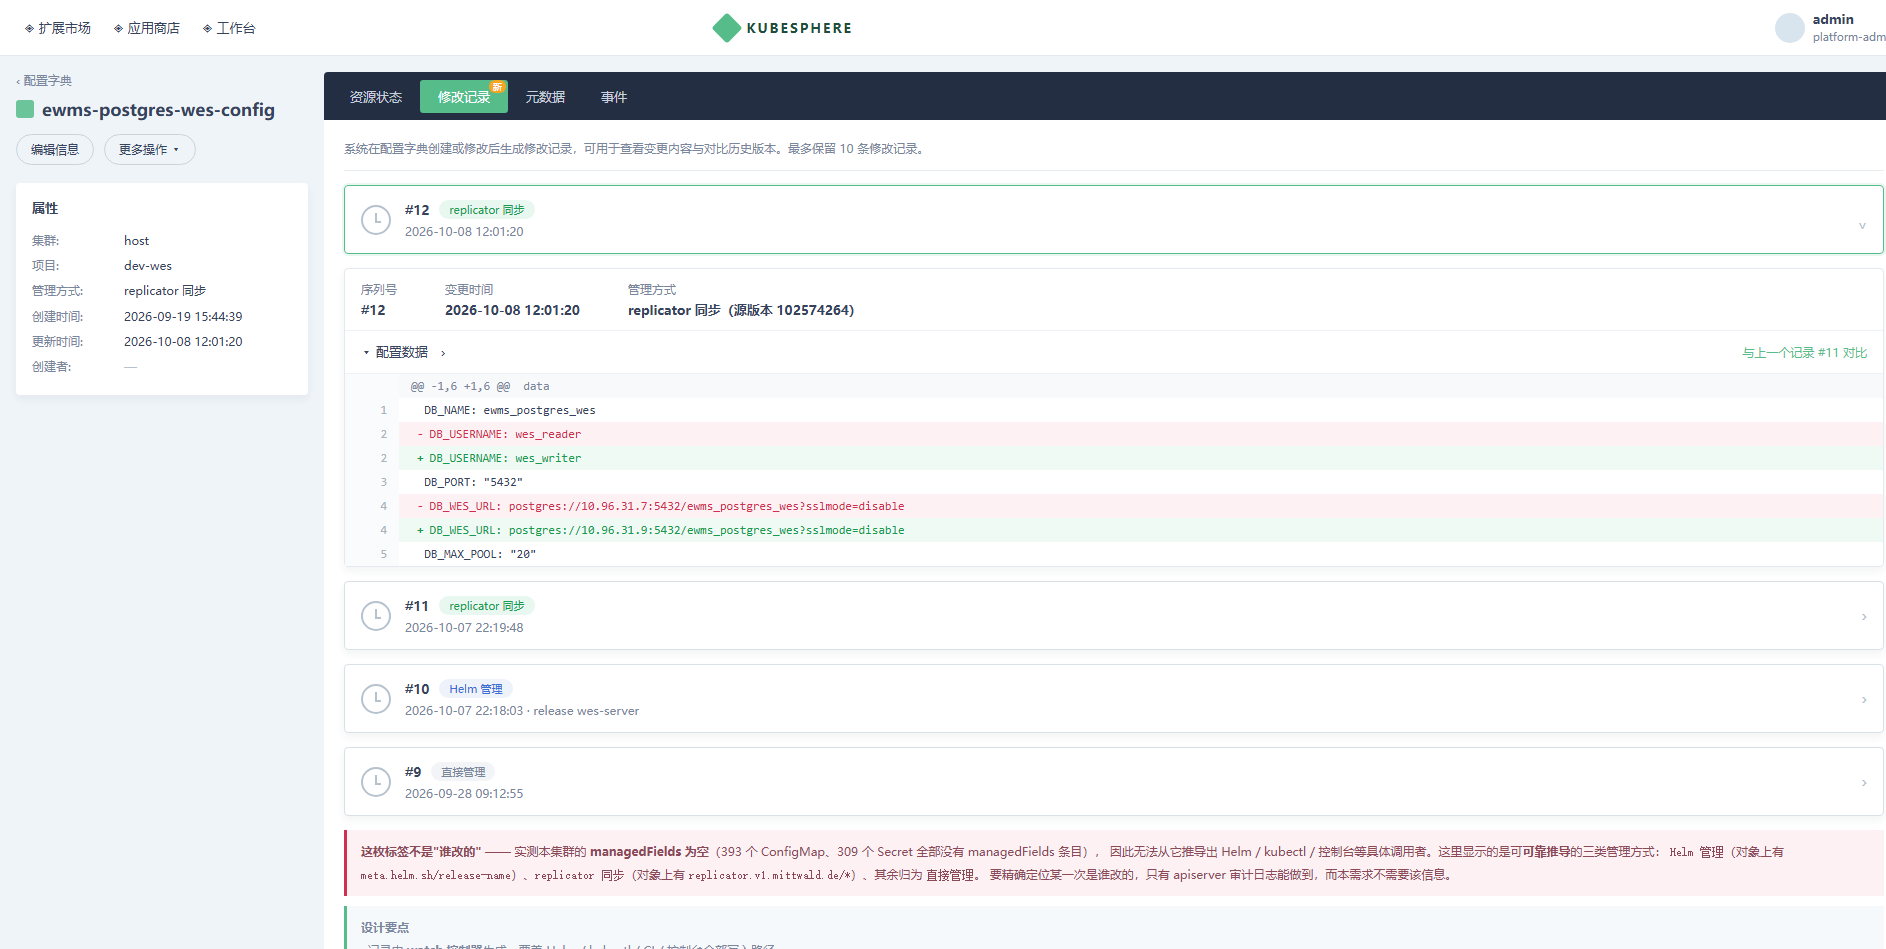
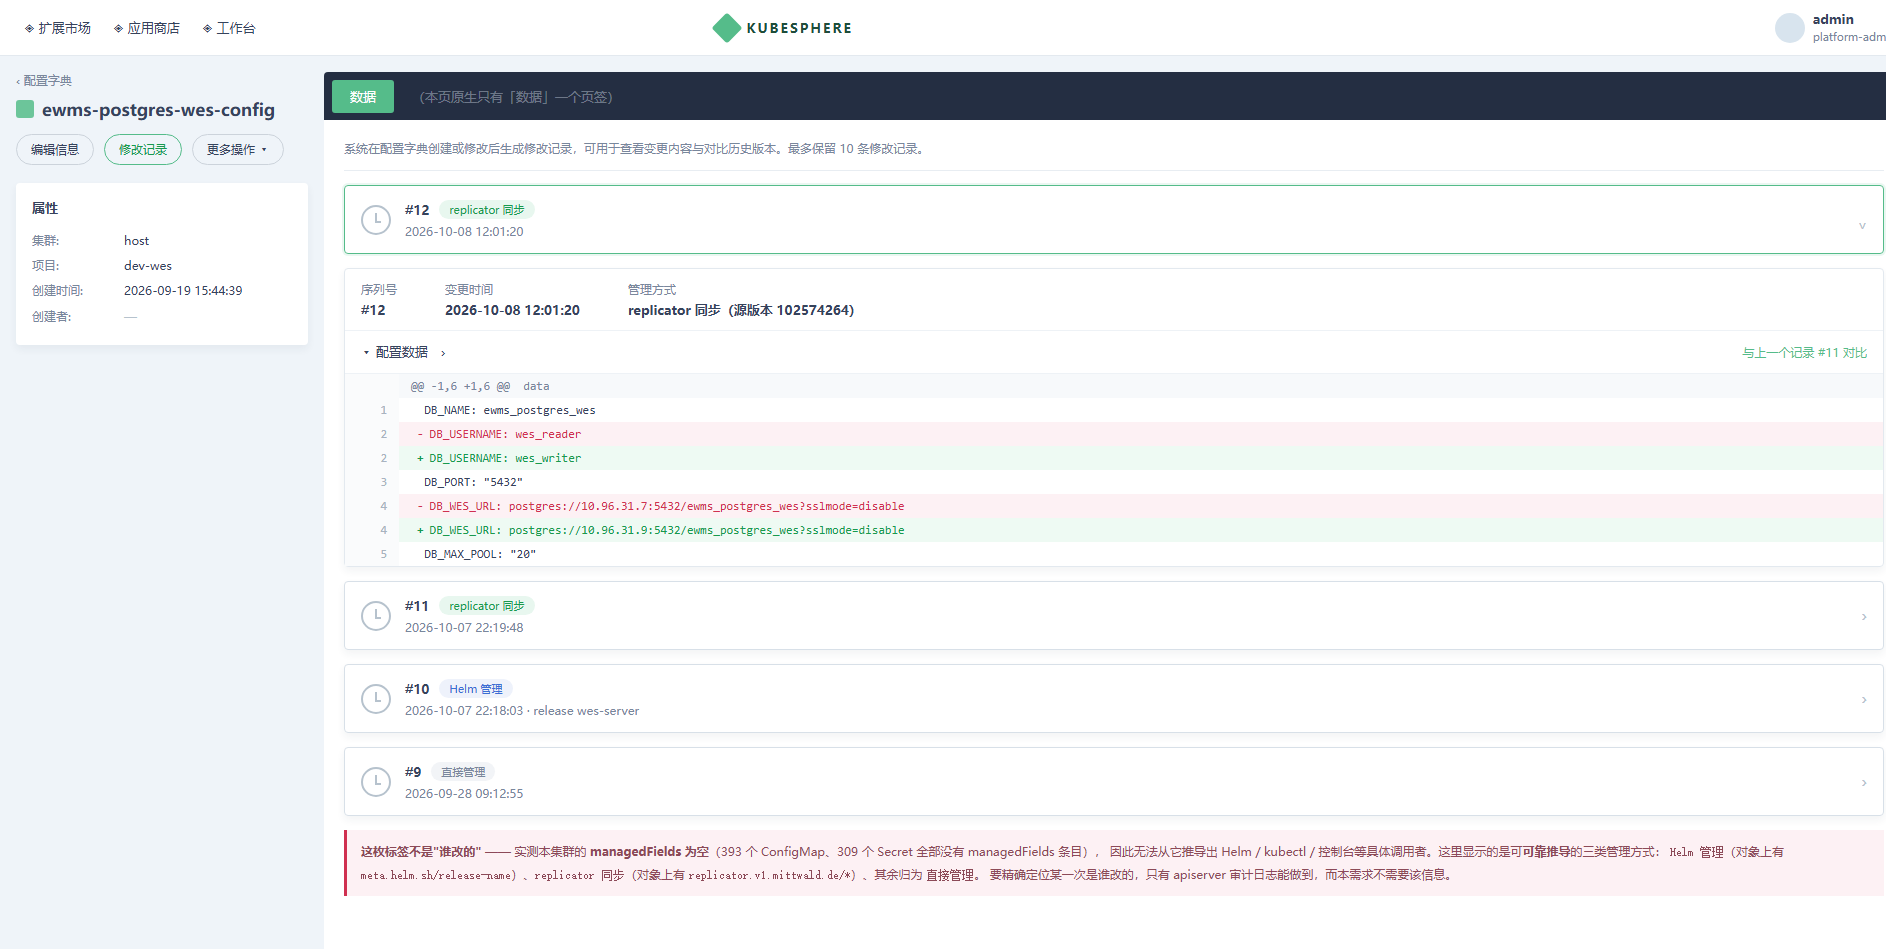
docs(config-history): the integration section, and a mockup that matches what was built
Adds the section the frontend rework deserves: the history renders through a portal into the
ConfigMap/Secret page's own content area rather than opening a page of its own, the entry is a
button reusing the native classes, and the page's own content is only hidden, never destroyed. It
also records why the design's four-tab bar is not implemented -- that bar belongs to the workload
pages, while this page has a single 数据 tab, and faking one would break when the embedded page
changes -- and why the property column keeps only what the console itself shows.

The four integration traps are written down with their causes: routing outside ProjectListLayout,
the two base64 layers, secretStore.getDetailUrl returning a misspelled host without a leading slash,
and a 404 read off an axios shape after the call moved to fetch.

The mockup is re-rendered to match what exists: the real single-tab bar, the injected button in the
action row, no property rows that the product does not have, and no design-notes box inside the
interface. Its earlier four-tab bar and 2-3px corners were drawing errors, not intent.

All four were found by making the page state its own failure and by reading the rendered image, not
by assertions -- which is also written down.

diff --git a/docs/designs/2026-10-08-config-history-design.md b/docs/designs/2026-10-08-config-history-design.md
@@ -159,6 +159,53 @@ public-workspace    6 个：aaaa · alerting · devops · monitoring · nfs · w
 base64，我们自己的负载又是 `base64(gzip(json))`。前端解码必须**连解两层**再 gunzip。这一点在
 联调时曾导致"Not a gzipped file (b'H4')"的误判 —— 当时怀疑是后端写错，实际是测试脚本少解了一层。
 
+### 前端集成：portal 进页面，而不是另开一页（实现后补充）
+
+这是本功能前端返工最多次的一处，值得记下结论与理由。
+
+**最终做法**：历史页面通过 `createPortal` 渲染进 V3 配置字典/保密字典页**自己的内容区**，与
+`配置引用` 渲染进容器编辑器是同一种做法。入口是**与原生按钮同排的一个按钮**（直接复用原生
+`className`，所以天然是原生胶囊样式）。打开时只把 V3 原内容 `display:none`，关闭时恢复 ——
+**不销毁嵌入页的任何东西**。
+
+**为什么不是独立路由**：第一版把历史做成 `ProjectListLayout` 下的独立 v4 路由，结果是**进去
+以后外框整个变了**（V3 的属性面板消失、左边换成项目菜单），与设计稿"属性面板保留、内容区换
+成历史"完全不符。设计稿画的框架就是 V3 配置字典页本身。
+
+**为什么不是页签**：设计稿画的 `资源状态 / 修改记录 / 元数据 / 事件` 页签栏**是画错的** ——
+那是工作负载页的外壳；V3 配置字典页**只有一个 `数据` 页签**（实测 `.detail-page-nav` 内仅一项）。
+复刻一个假页签栏等于伪造 V3 的交互，V3 一升级就坏，因此采用按钮形态。
+
+**实测的原生样式**（决定了记录卡应该长什么样）：
+
+| 元素 | 原生值 |
+|---|---|
+| 卡片 / 面板 / 下拉 / 页签栏 圆角 | **4px** |
+| 卡片阴影 | `0 4px 8px rgba(36,46,66,.06)` |
+| 按钮圆角 | **100px（胶囊）** |
+| 分隔线 | `1px solid rgb(227,233,239)` |
+
+**左列不再插入「管理方式 / 更新时间」两行**：需要往 V3 属性列表里插行（同类维护陷阱），而且信息
+冗余 —— `管理方式` 已显示在每条记录卡的标签与展开区三栏中。
+
+### 前端联调踩到的四个坑（都已修）
+
+1. **层级**：路由放在资源详情族（`detail.tsx`）→ 页面在 `ProjectListLayout` 与认证 Provider 之外 →
+   既无外壳又 `Failed to fetch`。放进 `ProjectListLayout` 修好外壳；做成 portal 修好"外框会变"。
+2. **双重 base64**：K8s 给 Secret 的 `data` 编一层，我们自己的负载又是 `base64(gzip(json))` —— 只解
+   一层得到的是 `H4sI...` 文本，gunzip 失败，而**读一个出错的流时浏览器抛的正是
+   `TypeError: Failed to fetch`**，所以伪装成了网络问题。当时后端验收的 `Not a gzipped file (b'H4')`
+   就是同一件事，本文件也早有这一节 —— 前端仍然写漏了；单测也因只构造一层而跟着漏。
+3. **`secretStore.getDetailUrl` 不能用**：它返回 `api/v1/klusters/<cluster>/namespaces/...`，`klusters`
+   拼写错误，且缺少开头的斜杠会被浏览器按相对路径解析 → 请求打到 SPA 的 index.html。这处平台缺陷
+   也影响 `配置引用` 的预览。历史页面改为自行拼接 `/clusters/<cluster>/api/v1/namespaces/...`。
+4. **404 要按 response.status 判断**：从 axios 换成 `fetch` 后，原来读 `error.response.status` 的判断
+   失效，于是"还没有历史记录"这个正常状态被渲染成了错误。现在 404 一律走空态。
+
+**验收方式上的教训**：这四处都不是靠文本断言发现的，而是靠**让页面自己说明原因**（把失败原因与请求
+URL 显示在页面上、钩住 `window.fetch` 点重试录下真实结果）以及**读渲染出来的图**。只断言元素数量与
+文本会全部通过，而页面明显是错的。
+
 ## 风险
 
 1. **自触发循环**：controller 写记录 → 触发自身 watch。必须用来源过滤或资源版本比对阻断。
